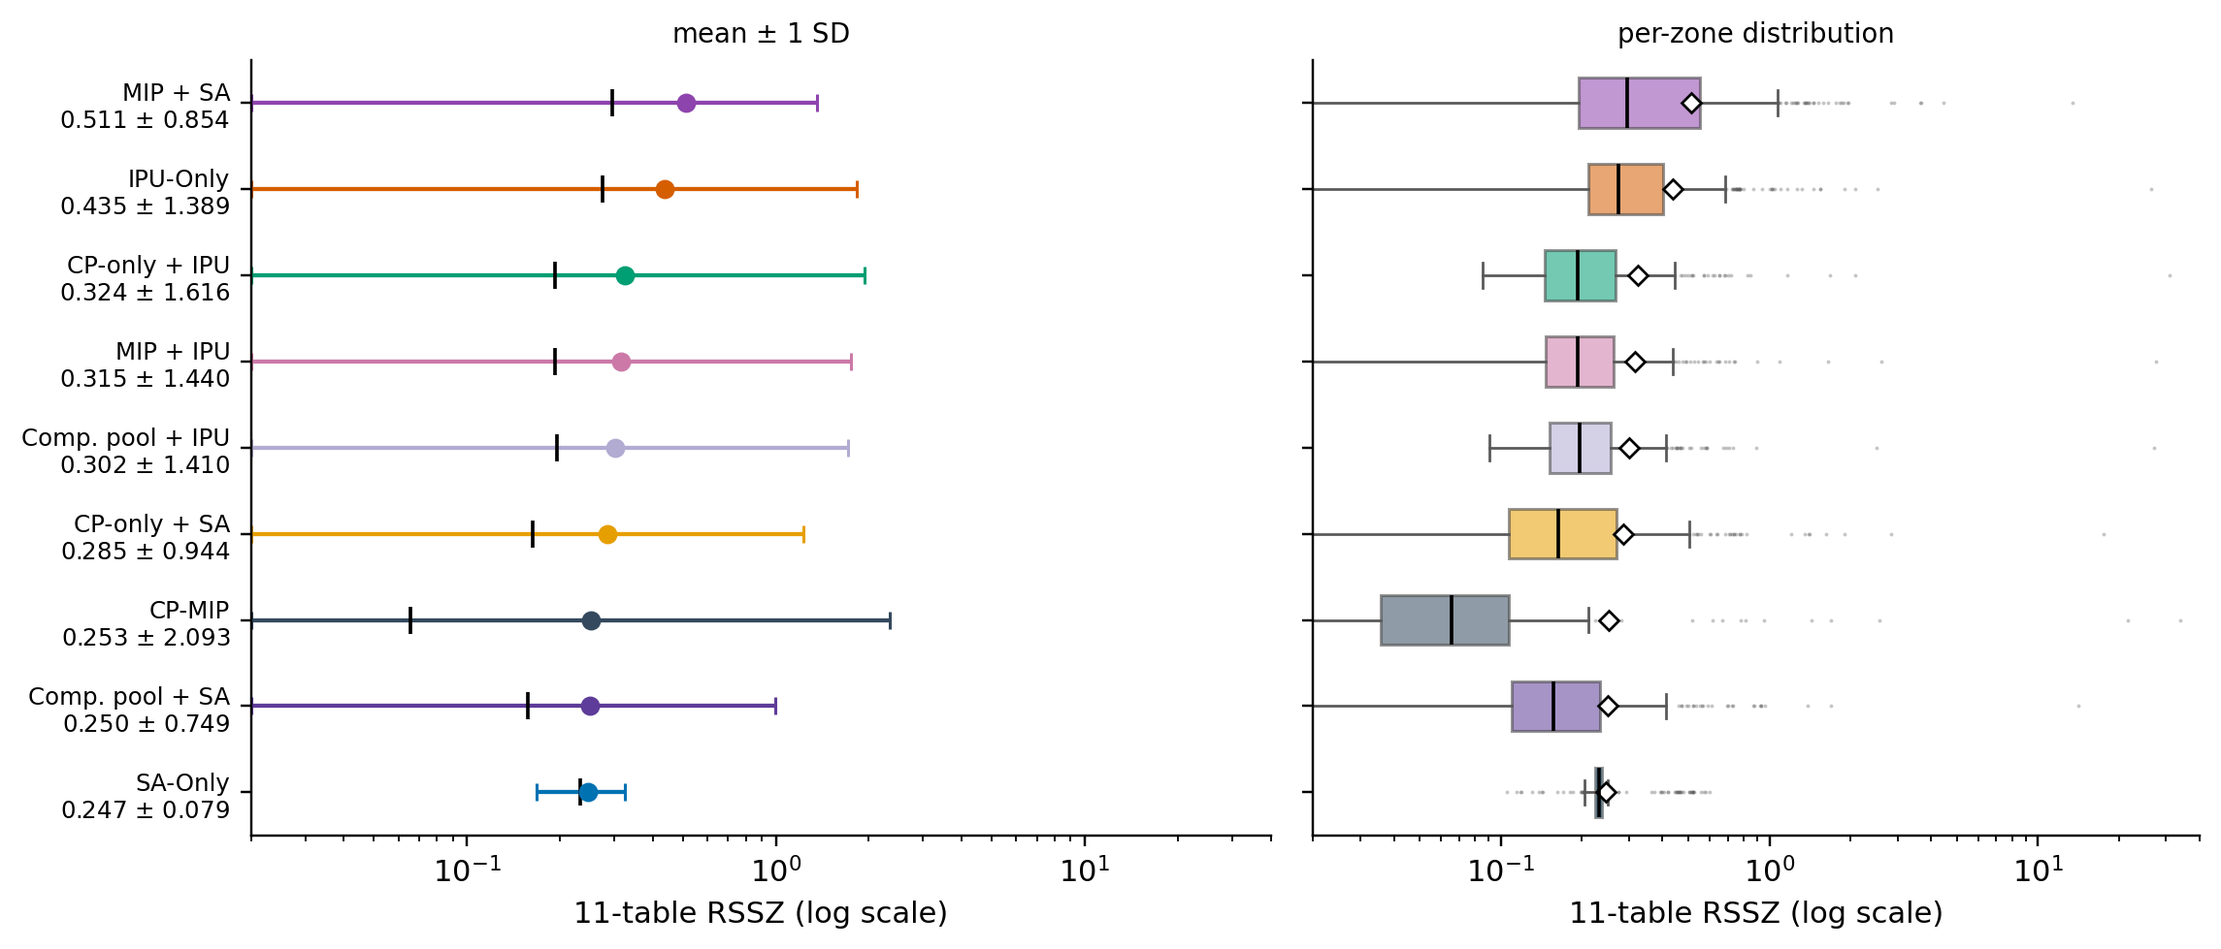
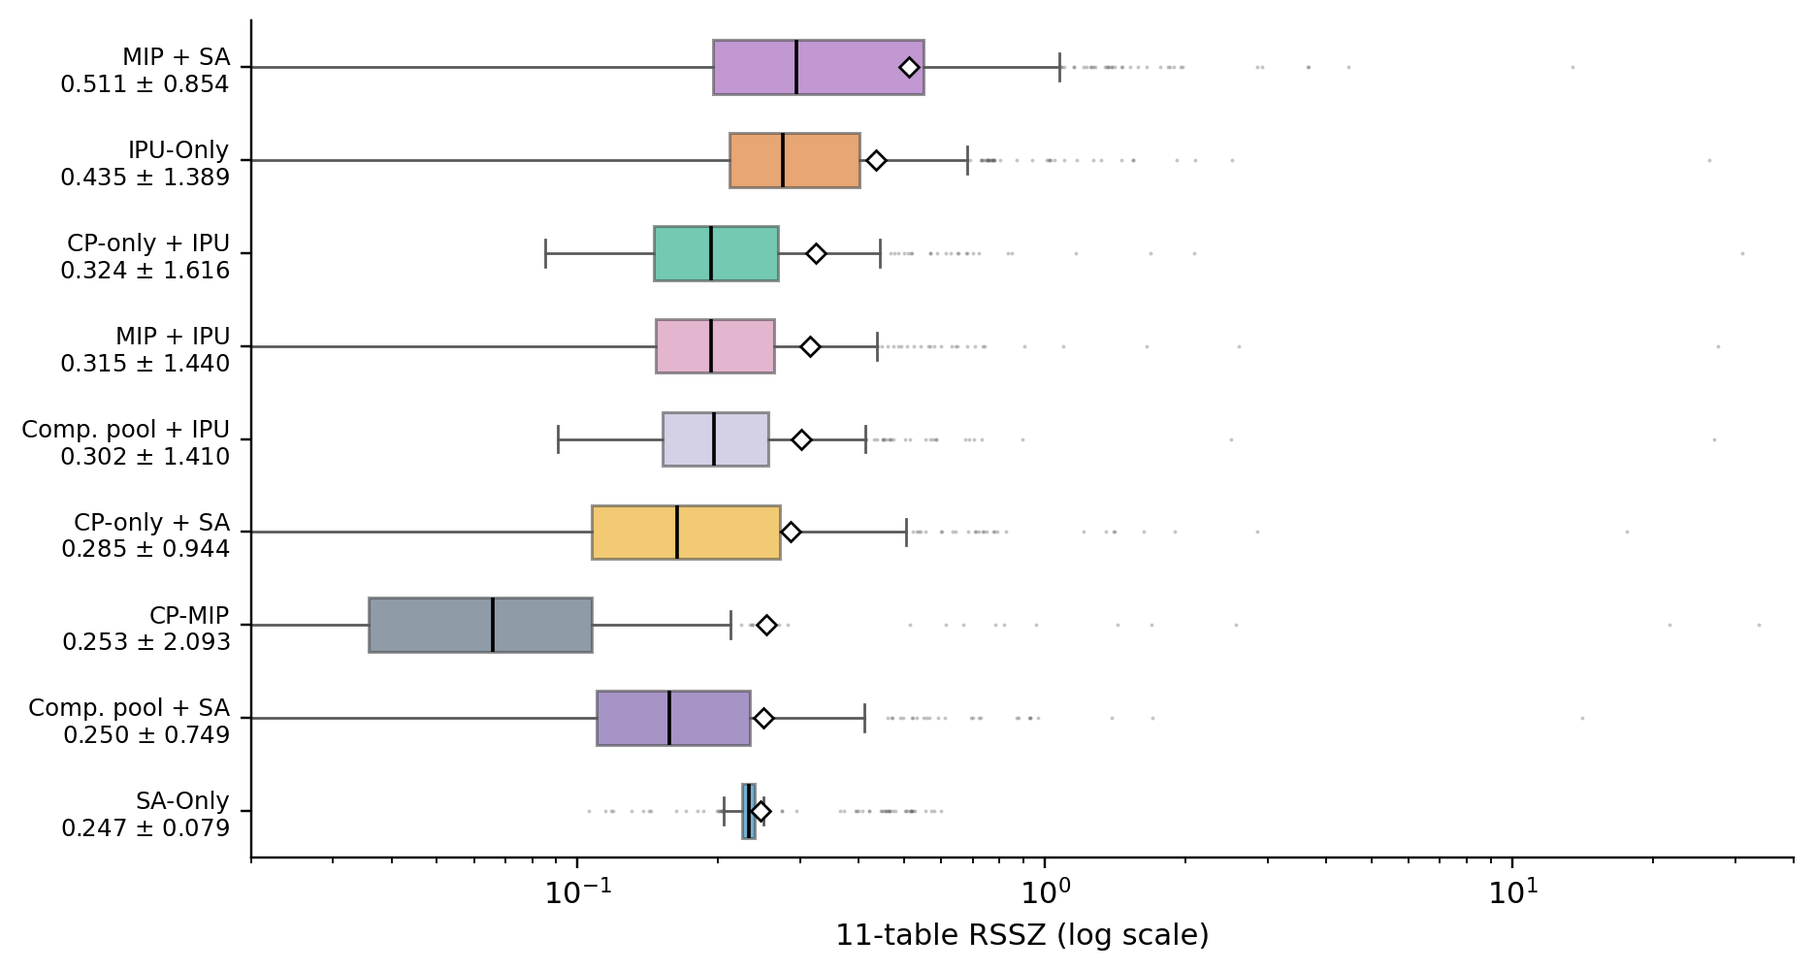
Show the distribution and tail share, and diagnose the nprd collision
Figure 4 is now the per-zone distribution only, with mean and SD in the labels. Figure 5 is the share of zones above RSSZ 1 by size quintile, which shows the MIP+SA tail rising to 20.3% in Q5 while SA-Only has none. The text diagnoses the nprd code-7 collision: 27,193 pool households carry code 7, but only four have seven members; the control table treats code 7 as a size category. This is the nprd component of both MIP+SA and CP-MIP tails.

diff --git a/main_edit3.tex b/main_edit3.tex
@@ -549,13 +549,13 @@ Residual cells: \texttt{qalfp:16} / \texttt{vehrd:6} / \texttt{strd:6} & 353 / 1
 
 \begin{table}[h!]
 \centering
-\caption{The pool $\times$ fitter design, with the completion status of each arm. Mean, 5\% trimmed mean and median RSSZ are reported on the \textbf{11 control tables shared by every arm}, summed per zone, over the identical \textbf{367-zone fitted cohort}; smaller is better. The trimmed mean drops the zones below the 5th and above the 95th percentile. Every row is on that one basis, so the rows are directly comparable and no arm is credited with a number produced on a different table set.}
+\caption{The pool $\times$ fitter design, with the completion status of each arm. Mean, 5\% trimmed mean and median RSSZ are reported on the \textbf{11 control tables shared by every arm}, summed per zone, over the identical \textbf{367-zone fitted cohort}; smaller is better. The trimmed mean drops the 18 lowest and 18 highest zone values (5\% of 367) and averages the remaining 331. Every row is on that one basis, so the rows are directly comparable and no arm is credited with a number produced on a different table set.}
 \label{tab:pool_fitter_matrix}
 \footnotesize
 \setlength{\tabcolsep}{3.5pt}
 \begin{tabular}{@{}lllcccc l@{}}
 \toprule
-\textbf{Arm} & \textbf{Pool} & \textbf{Fitter} & \textbf{Zones} & \textbf{Mean} & \textbf{Trim.} & \textbf{Median} & \textbf{Status} \\
+\textbf{Arm} & \textbf{Pool} & \textbf{Fitter} & \textbf{Zones} & \textbf{Mean} & \textbf{Trim. mean} & \textbf{Median} & \textbf{Status} \\
 \midrule
 SA-Only      & raw microdata & SA  & 367 & 0.247 & 0.239 & 0.233 & Complete \\
 IPU-Only     & raw microdata & IPU & 367 & 0.435 & 0.326 & 0.275 & Complete \\
@@ -574,30 +574,42 @@ MIP+IPU (comp.) & CP + composition filter & IPU & 367 & 0.302 & 0.211 & 0.196 & 
 \begin{figure}[t]
 \centering
 \includegraphics[width=\textwidth]{fig_rssz_by_arm.png}
-\caption{Cohort RSSZ by strategy on the 367-zone fitted cohort, 11-table
-reporting basis. \textbf{Left:} mean $\pm$ one standard deviation, clipped at
-the axis floor. \textbf{Right:} per-zone distribution (box = interquartile
-range, line = median, whiskers = 1.5 IQR, points = outliers). The mean and SD
-are dominated by the same tail zones, which is why Table~\ref{tab:pool_fitter_matrix}
-reports the trimmed mean and median beside them; the box panel shows the
-typical zone. CP-MIP has the lowest median but the largest SD; MIP+SA shifts
-the whole distribution upward, not just its tail.}
+\caption{Per-zone distribution of 11-table RSSZ by strategy on the 367-zone
+fitted cohort. Box = interquartile range, line = median, diamond = mean,
+whiskers = 1.5 IQR, points = outliers; mean $\pm$ SD is printed beside each
+arm. The mean and SD are dominated by the same tail zones, which is why
+Table~\ref{tab:pool_fitter_matrix} reports the trimmed mean and median beside
+them; the distribution shows the typical zone. CP-MIP has the lowest median but
+the largest SD; MIP+SA shifts the whole distribution upward, not just its tail.}
 \label{fig:rssz_by_arm}
 \end{figure}
 
 \textbf{Why the MIP append hurts SA.} The MIP+SA degradation is concentrated
 almost entirely in the travel-to-work and household-size tables; the other nine
 shared tables are unchanged or slightly better. The appended menu is enriched
-in size-7 households and \texttt{mtwp}-17 persons, which the annealer selects to
-cover other cells and then cannot offset. IPU is unaffected because it
-reweights the same candidates rather than selecting them, and the composition
-filter removes those households and restores SA. The append is therefore not a
-better pool for every fitter: it is a pool whose composition has to be
-controlled before a discrete selector can use it.
+in \texttt{nprd} code-7 (residual/not-applicable) households and
+\texttt{mtwp}-17 persons, which the annealer selects to cover other cells and
+then cannot offset. IPU is unaffected because it reweights the same candidates
+rather than selecting them, and the composition filter removes those households
+and restores SA. The append is therefore not a better pool for every fitter: it
+is a pool whose composition has to be controlled before a discrete selector can
+use it.
+
+The household-size component is a coding collision, not a size effect. In the
+pool, \texttt{nprd} code 7 is the residual/not-applicable code for visitors-only
+and non-classifiable dwellings: 27{,}193 of 549{,}699 pool households carry it,
+but only four have seven members; 10{,}434 have one and 9{,}030 have two. The
+control tables use code 7 as a seven-person size category. A fitter therefore
+treats residual households as size-7 carriers. In 316071546, the one-MIP arm
+selects 902 code-7 households, mostly one or two persons, against a control
+target of two size-7 households; its \texttt{nprd} RSSZ is 20.4. The same
+collision drives the \texttt{nprd} component of the MIP+SA tail. Recoding code 7
+in the pool to a separate not-applicable flag, and excluding it from the size
+control, is the correct fix; it is not done in the released run.
 
 \textbf{The pool effect under a fixed fitter.} Table~\ref{tab:pool_fitter_matrix} separates the pool effect from the fitter effect. With the fitter held at IPU, the constructed pool lowers both the mean and the median relative to IPU-Only. With the fitter held at SA, the constructed pool is close to SA-Only, while the full-menu MIP append is worse; when the appended menu is composition-filtered, the SA arm matches SA-Only and improves its median. The clean pool contrast is therefore CP-only+IPU against IPU-Only, which share one zone set and differ only by the constructed pool. The constructed pool also differs from the raw microdata in size and composition as well as feasibility, so that pair identifies the pool as a whole rather than the feasibility property alone.
 
-\textbf{The one-MIP arm.} CP-MIP replaces the selection/weighting fitter with one integer program per zone. It chooses an integer replication count for every candidate household in the zone's SA4 slice, minimising missed control cells first and table deviations second, with a pool-anchored soft block for joint and uncontrolled attributes. Table~\ref{tab:pool_fitter_matrix} shows that it has the lowest median RSSZ of any arm, although its mean is not the lowest: two zones, 302031036 and 316071546, return a 120-second incumbent and carry most of its tail; 302031036 is also the zone whose control tables disagree on the person universe, so its value reflects an unsatisfiable target rather than a fitter failure. Table~\ref{tab:full_audit} shows the cost, with the highest within-zone duplication and joint TVD, so the marginal median is bought by replication rather than a richer joint structure. A 19-zone sweep shows that the in-sample optimum is not the held-out optimum; the released sweep summary reports the grid, and the reported arm uses a middle setting. The same sweep
+\textbf{The one-MIP arm.} CP-MIP replaces the selection/weighting fitter with one integer program per zone. It chooses an integer replication count for every candidate household in the zone's SA4 slice, minimising missed control cells first and table deviations second, with a pool-anchored soft block for joint and uncontrolled attributes. Table~\ref{tab:pool_fitter_matrix} shows that it has the lowest median RSSZ of any arm, although its mean is not the lowest: two zones, 302031036 and 316071546, return a 120-second incumbent and carry most of its tail; 302031036 is also the zone whose control tables disagree on the person universe, so its value reflects an unsatisfiable target rather than a fitter failure, while 316071546 is the \texttt{nprd} coding collision above, where the incumbent covers 224 cells but overproduces code-7 households. Table~\ref{tab:full_audit} shows the cost, with the highest within-zone duplication and joint TVD, so the marginal median is bought by replication rather than a richer joint structure. A 19-zone sweep shows that the in-sample optimum is not the held-out optimum; the released sweep summary reports the grid, and the reported arm uses a middle setting. The same sweep
 identifies the duplication lever: the within-zone identical-person share falls
 monotonically as the replication cap is lowered, while the joint-weight setting
 barely changes it, so the held-out-winning setting is also the least duplicating
@@ -625,23 +637,25 @@ Table~\ref{tab:cp_sa_tail} separates search budget from pool composition on the 
 
 \input{files/cp_sa_tail.tex}
 
-\textbf{Scaling with zone size.} Figure~\ref{fig:zone_size} splits the fitted cohort
-into census-population quintiles. The rank order of the arms barely moves across
-the size range: SA-Only's median is nearly flat in size, CP-MIP's advantage over
-it holds in every quintile, and the CP-only + SA arms narrow their advantage in
-the two largest quintiles. Win rates against SA-Only track the same pattern, so
-the pool-to-pool conclusions above are not an artefact of zone mix.
+\textbf{Where the MIP tail lives.} Figure~\ref{fig:zone_size} shows the share
+of zones with 11-table RSSZ above 1 by size quintile. SA-Only has none;
+CP-only + SA stays at or below 5.4\%; CP-MIP has a 5.4\% tail in Q1, the
+control-table conflict zone, and is near zero elsewhere; MIP+SA rises overall
+from 5.4\% in Q1 to 20.3\% in Q5. The MIP+SA blow-ups are therefore not a
+small-zone artefact: they grow with zone size, consistent with the
+\texttt{nprd}/\texttt{mtwp} composition mechanism above. The per-zone values are
+released with the code.
 
 \begin{figure}[t]
 \centering
-\includegraphics[width=\textwidth]{fig_zone_size.png}
-\caption{Scaling with zone size on the fitted cohort, grouped into
-census-population quintiles from smallest (Q1) to largest (Q5).
-\textbf{(a)} Median 11-table RSSZ per quintile for SA-Only, IPU-Only,
-CP-only + SA, the composition-filtered pool + SA (Comp. pool + SA), and CP-MIP.
-\textbf{(b)} The share of zones in each quintile that beat SA-Only; SA-Only is
-the baseline and is therefore not drawn. The rank order is stable across the
-size range; the per-zone values behind the figure are released with the code.}
+\includegraphics[width=0.78\textwidth]{fig_zone_size.png}
+\caption{Tail share by zone size on the fitted cohort, grouped into
+census-population quintiles from smallest (Q1) to largest (Q5). The y-axis is
+the share of zones with 11-table RSSZ above 1 for SA-Only, IPU-Only,
+CP-only + SA, the composition-filtered pool + SA (Comp. pool + SA), CP-MIP,
+MIP+SA and MIP+IPU. SA-Only has no zones above the threshold; CP-MIP's only
+tail is Q1, the control-table conflict zone; MIP+SA rises overall to 20.3\% in
+Q5. The per-zone values behind the figure are released with the code.}
 \label{fig:zone_size}
 \end{figure}
 

diff --git a/make_zone_size_fig.py b/make_zone_size_fig.py
@@ -1,4 +1,9 @@
-"""Zone-size scaling: median RSSZ and win rate by census-population quintile."""
+"""Tail share by zone-size quintile.
+
+The median is not the point of this figure: it is the share of zones whose
+11-table RSSZ exceeds 1.0.  That is where the MIP+SA blow-ups live, and it rises
+with zone size even though the median is flat.
+"""
 import os
 
 import matplotlib
@@ -15,61 +20,46 @@ ARMS = [
     ("sa_only", "SA-Only", "#0072B2", "o", "-"),
     ("ipu_only", "IPU-Only", "#D55E00", "s", "--"),
     ("base_sa", "CP-only + SA", "#E69F00", "^", "-."),
-    ("composition_sa", "Comp. pool + SA", "#8E44AD", "D", ":"),
+    ("composition_sa", "Comp. pool + SA", "#5E3C99", "D", ":"),
     ("cp_mip", "CP-MIP", "#34495E", "*", "-"),
+    ("cp_sa", "MIP + SA", "#8E44AD", "v", "-"),
+    ("cp_ipu", "MIP + IPU", "#CC79A7", "P", "--"),
 ]
 BINS = ["Q1", "Q2", "Q3", "Q4", "Q5"]
+TAIL = 1.0
 
 
 def main():
     d = pd.read_csv(CSV)
     d["size_bin"] = pd.Categorical(d["size_bin"], categories=BINS, ordered=True)
-    med = d.groupby("size_bin", observed=True)[[a for a, _, _, _, _ in ARMS]].median()
-    wins = {}
-    for a, _, _, _, _ in ARMS:
-        if a == "sa_only":
-            continue
-        wins[a] = (d[a] < d["sa_only"]).groupby(
-            d["size_bin"], observed=True).mean()
-
-    fig, (ax1, ax2) = plt.subplots(1, 2, figsize=(10.5, 4.0),
-                                   gridspec_kw={"width_ratios": [1.15, 1]})
     x = np.arange(len(BINS))
+
+    fig, ax = plt.subplots(figsize=(7.8, 4.2))
     handles = []
-    for a, label, colour, marker, linestyle in ARMS:
-        line, = ax1.plot(x, med[a].reindex(BINS).to_numpy(), marker=marker,
-                         markersize=5.5, linewidth=1.8, linestyle=linestyle,
-                         color=colour, label=label)
+    for key, label, colour, marker, linestyle in ARMS:
+        share = (d[key] > TAIL).groupby(
+            d["size_bin"], observed=True).mean().reindex(BINS) * 100
+        line, = ax.plot(x, share.to_numpy(), marker=marker, markersize=5.5,
+                        linewidth=1.8, linestyle=linestyle, color=colour,
+                        label=label)
         handles.append(line)
-    ax1.set_xticks(x)
-    ax1.set_xticklabels(BINS)
-    ax1.set_xlabel("census-population quintile (smallest to largest)")
-    ax1.set_ylabel("median 11-table RSSZ")
+    ax.set_xticks(x)
+    ax.set_xticklabels(BINS)
+    ax.set_xlabel("census-population quintile (smallest to largest)")
+    ax.set_ylabel(f"zones with 11-table RSSZ > {TAIL:g} (%)")
+    ax.set_ylim(bottom=0)
     for sp in ("top", "right"):
-        ax1.spines[sp].set_visible(False)
+        ax.spines[sp].set_visible(False)
 
-    for a, label, colour, marker, linestyle in ARMS:
-        if a == "sa_only":
-            continue
-        ax2.plot(x, wins[a].reindex(BINS).to_numpy() * 100, marker=marker,
-                 markersize=5.5, linewidth=1.8, linestyle=linestyle,
-                 color=colour, label=label)
-    ax2.axhline(50, linestyle=":", color="#7f8c8d", linewidth=1)
-    ax2.set_ylim(0, 105)
-    ax2.set_xticks(x)
-    ax2.set_xticklabels(BINS)
-    ax2.set_xlabel("census-population quintile")
-    ax2.set_ylabel("zones beating SA-Only (%)")
-    for sp in ("top", "right"):
-        ax2.spines[sp].set_visible(False)
-
-    fig.legend(handles=handles, loc="lower center", ncol=5, frameon=False,
-               fontsize=8, bbox_to_anchor=(0.5, -0.01))
-    fig.tight_layout(rect=(0, 0.08, 1, 1))
+    fig.legend(handles=handles, loc="lower center", ncol=4, frameon=False,
+               fontsize=8, bbox_to_anchor=(0.5, -0.02))
+    fig.tight_layout(rect=(0, 0.10, 1, 1))
     fig.savefig(OUT, dpi=220, bbox_inches="tight")
     print("wrote", OUT)
-    print(med.round(3).to_string())
-    print({k: v.round(3).to_dict() for k, v in wins.items()})
+    for key, label, _, _, _ in ARMS:
+        share = (d[key] > TAIL).groupby(
+            d["size_bin"], observed=True).mean().reindex(BINS) * 100
+        print(f"{label:18s}", share.round(1).to_dict())
 
 
 if __name__ == "__main__":

diff --git a/files/expansion_composition.tex b/files/expansion_composition.tex
@@ -6,8 +6,8 @@ set it selects. To expose the distinction, a full-menu build appends the
 remaining candidate menu after the solve; those appended records are not part of
 the admission vector, are not in the deviation terms and are not subject to the
 composition tie-break. The result is a pool that is cell-complete but
-compositionally skewed, with a surplus of size-7 households and \texttt{mtwp}
-code 17. Table~\ref{tab:expansion_composition} reports the base pool, that
+compositionally skewed, with a surplus of \texttt{nprd} code-7 (residual/not-applicable)
+households and \texttt{mtwp} code 17. Table~\ref{tab:expansion_composition} reports the base pool, that
 build and the controlled variants. It is read in three blocks: the released
 build, the 300-donor controlled variants that isolate the append filter, and the
 2{,}000-donor negative result.
@@ -16,7 +16,7 @@ Two composition-controlled variants were built from the same shards, without
 rerunning the MIP. The \emph{coverage-only} variant keeps the selected support
 set and drops the appended menu. The \emph{composition-aware} variant keeps the
 base pool, the selected set and only those appended households that are neither
-size 7 nor contain \texttt{mtwp} code 17. The implementation also exposes a
+\texttt{nprd} code 7 nor contain \texttt{mtwp} code 17. The implementation also exposes a
 composition-weight multiplier, optional caps and a minimum-admitted-household
 bound; hard caps alone can starve coverage, so the reported variants use the two
 filters. Table~\ref{tab:expansion_composition} reports their composition and
@@ -26,8 +26,7 @@ fitted RSSZ.
 \centering
 \caption{Composition control in the MIP-appended menu. The first block is the
 released build; the second holds the donor menu fixed at 300 donors and varies
-what is appended; the third is the larger-menu negative result. Size-7 is the
-share of households in the \texttt{nprd} code-7 cell; \texttt{mtwp} 17 is the
+what is appended; the third is the larger-menu negative result. NPRD 7 is the share of households in the \texttt{nprd} code-7 cell; in the pool this is a residual/not-applicable code, not a seven-person count; \texttt{mtwp} 17 is the
 share of persons in the ``Not stated'' travel category. The fitted columns are
 11-table RSSZ on the 367-zone fitted cohort. The first row is the unexpanded
 pool, so the second row isolates the expansion step.}
@@ -37,7 +36,7 @@ pool, so the second row isolates the expansion step.}
 \resizebox{\textwidth}{!}{%
 \begin{tabular}{@{}lrrrrrrrr@{}}
 \toprule
-Variant & Persons & Households & Size-7 & \texttt{mtwp} 17 & SA mean & SA med. & IPU mean & IPU med. \\
+Variant & Persons & Households & NPRD 7 & \texttt{mtwp} 17 & SA mean & SA med. & IPU mean & IPU med. \\
 \midrule
 \multicolumn{9}{@{}l}{\emph{Released build}} \\
 Base CP pool (no expansion) & 1{,}396{,}342 & 549{,}699 & 5.0\% & 0.0\% & 0.285 & 0.163 & 0.324 & 0.193 \\
@@ -57,7 +56,7 @@ Current MIP-expanded pool & 1{,}463{,}817 & 569{,}024 & 5.6\% & 1.5\% & 0.511 & 
 \end{table}
 
 \par\smallskip
-{\footnotesize\textit{Note:} the 2{,}000-donor rows report composition only; no fit was run on that pool. The filter removes every size-7 and \texttt{mtwp}-17 household by construction, so its 0.0\% entries are definitions rather than outcomes.}
+{\footnotesize\textit{Note:} the 2{,}000-donor rows report composition only; no fit was run on that pool. The filter removes every \texttt{nprd} code-7 and \texttt{mtwp}-17 household by construction, so its 0.0\% entries are definitions rather than outcomes.}
 
 A further build increased the donor menu rather than the shell count.
 Table~\ref{tab:expansion_composition} shows that it is dominated by verbatim

diff --git a/make_rssz_summary_fig.py b/make_rssz_summary_fig.py
@@ -1,8 +1,8 @@
-"""Cohort RSSZ by strategy: mean +/- SD and per-zone distribution.
+"""Per-zone RSSZ distribution by strategy, with mean and SD in the labels.
 
 All nine paper arms, 367-zone fitted cohort, 11-table reporting basis.  The
-mean/SD panel shows why the mean alone is misleading: CP-MIP and the IPU arms
-have large SDs driven by the same tail zones that the box panel exposes.
+box panel is deliberately the whole figure: the mean/SD is printed beside each
+arm, but the distribution shows the tail zones that the mean hides.
 """
 import os
 
@@ -43,41 +43,16 @@ def main():
             "median": float(np.median(s)),
         }
 
-    # Sort by mean so the left panel reads monotonically.
     order = sorted(stats, key=lambda k: stats[k]["mean"])
-    y = np.arange(1, len(order) + 1)
     labels = [
         f"{stats[k]['label']}\n{stats[k]['mean']:.3f} $\\pm$ {stats[k]['sd']:.3f}"
         for k in order
     ]
 
-    fig, (ax1, ax2) = plt.subplots(
-        1, 2, figsize=(10.5, 4.6), sharey=True,
-        gridspec_kw={"width_ratios": [1.15, 1]})
-
-    floor = 0.02
-    for i, key in enumerate(order):
-        st = stats[key]
-        lo = max(floor, st["mean"] - st["sd"])
-        hi = st["mean"] + st["sd"]
-        ax1.errorbar(
-            st["mean"], i + 1, xerr=[[st["mean"] - lo], [hi - st["mean"]]],
-            fmt="o", markersize=5.5, color=st["colour"], ecolor=st["colour"],
-            elinewidth=1.4, capsize=3, capthick=1.0)
-        ax1.plot(st["median"], i + 1, marker="|", markersize=9, color="black",
-                 markeredgewidth=1.2)
-    ax1.set_xscale("log")
-    ax1.set_xlim(floor, 40)
-    ax1.set_yticks(y)
-    ax1.set_yticklabels(labels, fontsize=8)
-    ax1.set_xlabel("11-table RSSZ (log scale)")
-    ax1.set_title("mean $\\pm$ 1 SD", fontsize=9)
-    for sp in ("top", "right"):
-        ax1.spines[sp].set_visible(False)
-
+    fig, ax = plt.subplots(figsize=(8.6, 4.7))
     data = [stats[k]["values"] for k in order]
     colours = [stats[k]["colour"] for k in order]
-    bp = ax2.boxplot(
+    bp = ax.boxplot(
         data, vert=False, widths=0.58, patch_artist=True, whis=1.5,
         showfliers=True,
         flierprops=dict(marker=".", markersize=2.5, alpha=0.35,
@@ -90,17 +65,15 @@ def main():
         patch.set_alpha(0.55)
         patch.set_edgecolor("0.25")
     for i, key in enumerate(order):
-        ax2.plot(stats[key]["mean"], i + 1, marker="D", markersize=4.5,
-                 color="black", markerfacecolor="white", markeredgewidth=0.9)
-    # boxplot resets the shared y-axis ticks; restore the arm labels.
-    ax1.set_yticks(y)
-    ax1.set_yticklabels(labels, fontsize=8)
-    ax2.set_xscale("log")
-    ax2.set_xlim(floor, 40)
-    ax2.set_xlabel("11-table RSSZ (log scale)")
-    ax2.set_title("per-zone distribution", fontsize=9)
+        ax.plot(stats[key]["mean"], i + 1, marker="D", markersize=4.5,
+                color="black", markerfacecolor="white", markeredgewidth=0.9)
+    ax.set_xscale("log")
+    ax.set_xlim(0.02, 40)
+    ax.set_yticks(np.arange(1, len(order) + 1))
+    ax.set_yticklabels(labels, fontsize=8)
+    ax.set_xlabel("11-table RSSZ (log scale)")
     for sp in ("top", "right"):
-        ax2.spines[sp].set_visible(False)
+        ax.spines[sp].set_visible(False)
 
     fig.tight_layout()
     fig.savefig(OUT, dpi=220, bbox_inches="tight")
